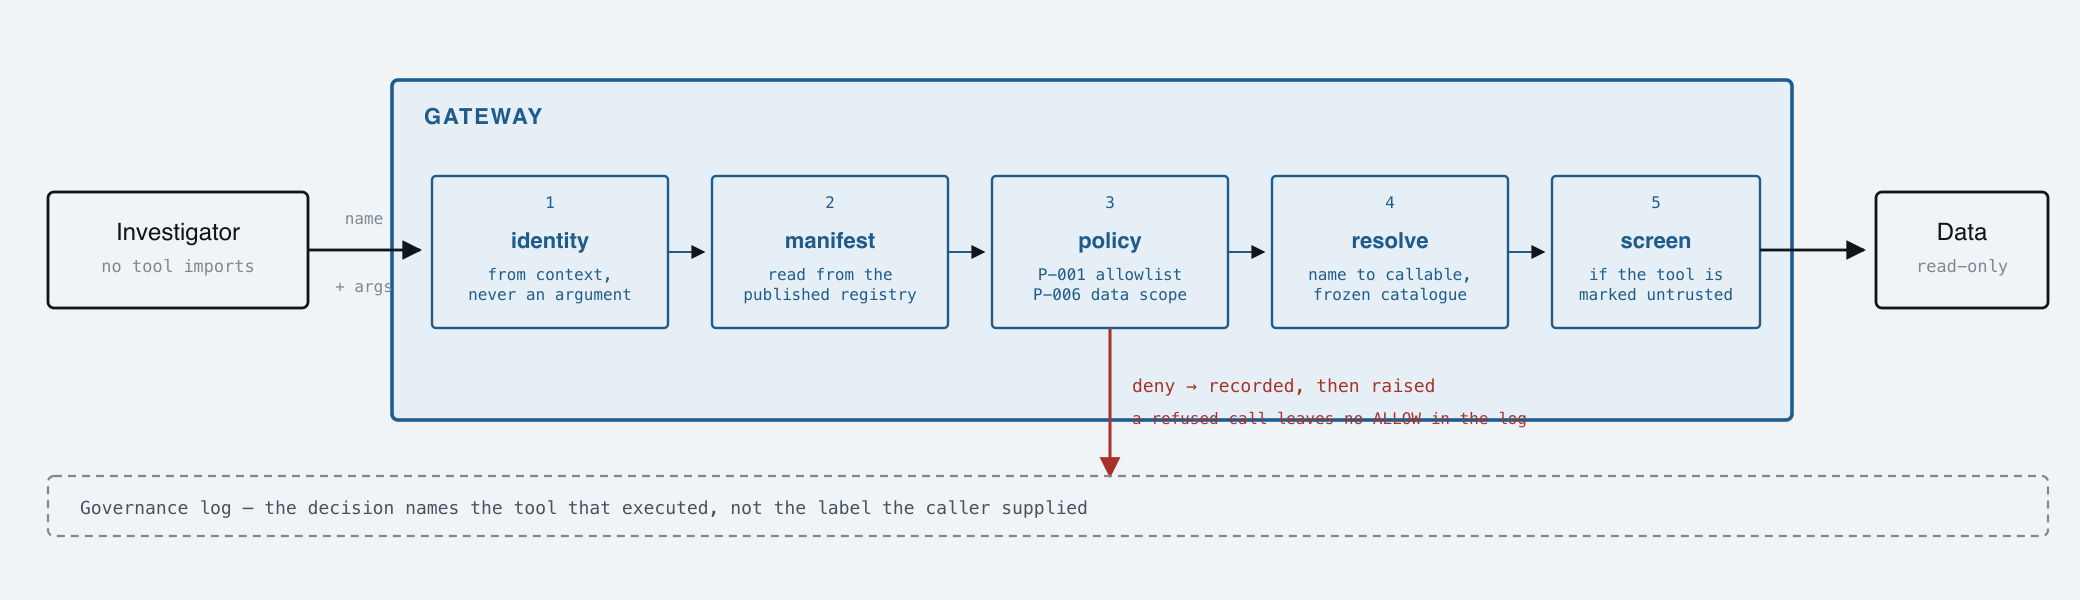
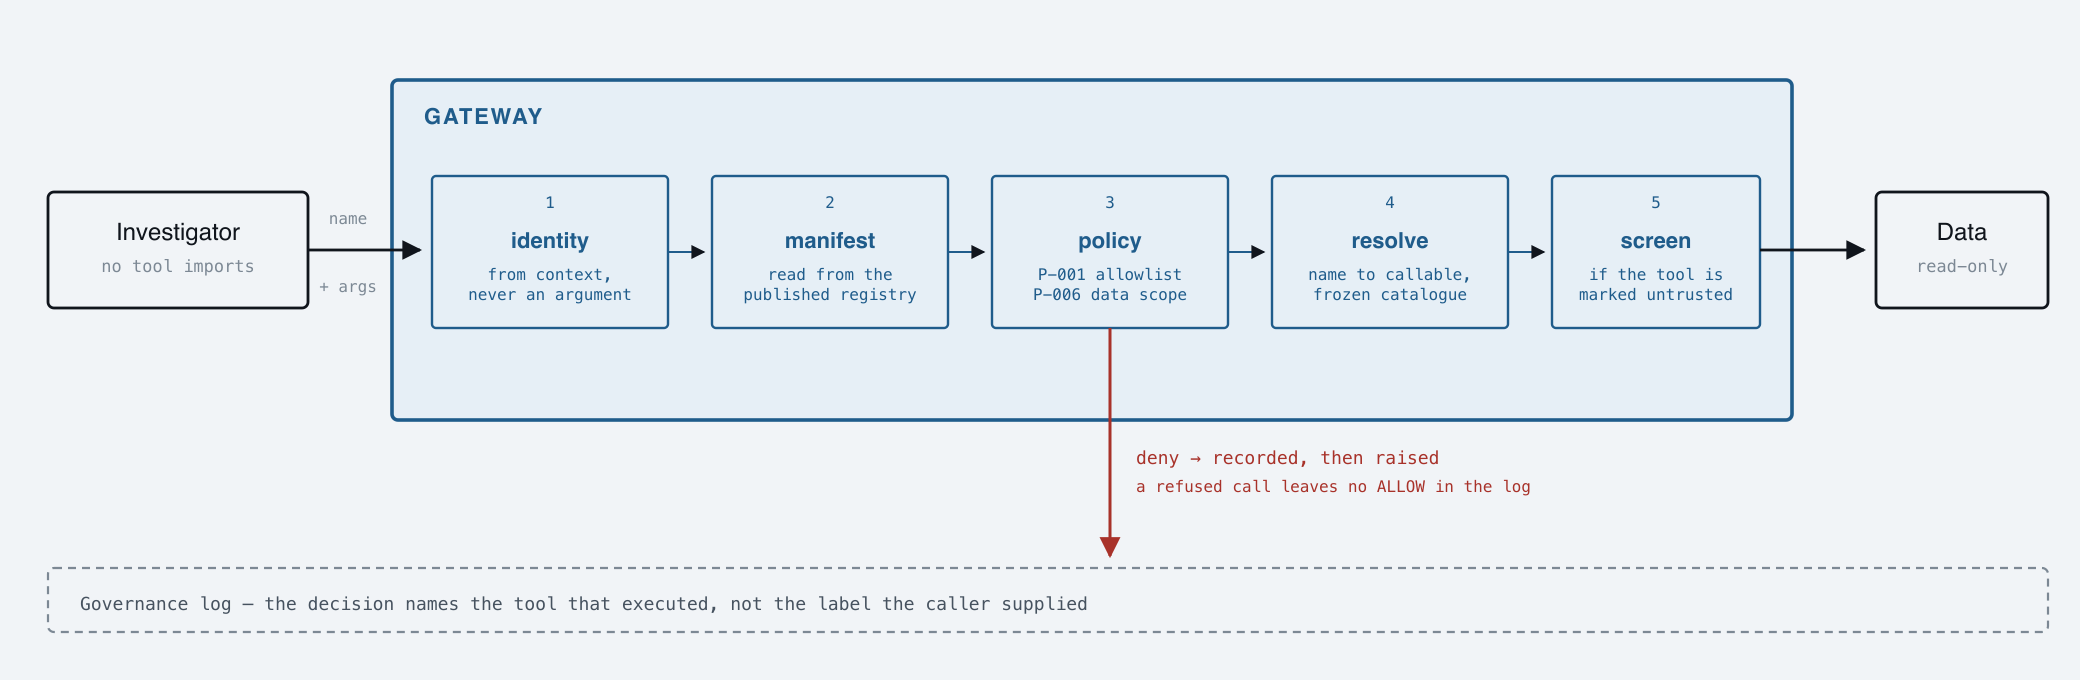
Figure 2: move the denial annotation clear of the gateway band
The red annotation was painted at y=196 and y=212 while the gateway band
runs y=40 to 210, so the first line sat inside the blue fill and the second
was struck through by the band's bottom border.

The canvas grows 300 to 340 and the text moves to y=232/246, below the band.
The denial path still originates at the policy step inside the band, because
that is where a refusal actually happens -- it is the label that had to move,
not the arrow.

Also recentred the "name / + args" pair from x=182 to x=174: at 182 the
wider "+ args" ran from 163 to 201 and was clipped by the band's left border
at 196. The gap between the investigator box and the band is 42px, so both
labels now sit inside it.

diff --git a/docs/architecture.html b/docs/architecture.html
@@ -336,7 +336,7 @@ footer {
 
   <figure>
     <div class="canvas">
-      <svg viewBox="0 0 1040 300" role="img"
+      <svg viewBox="0 0 1040 340" role="img"
         aria-label="An agent emits a tool name and arguments. The gateway resolves identity from context, reads the manifest from the registry, checks the allowlist and data scope, resolves the name to a callable in a frozen catalogue, executes it, and screens the result if the tool is marked untrusted. Denials at any step are recorded and raised.">
         <defs>
           <marker id="b" viewBox="0 0 10 10" refX="9" refY="5" markerWidth="7" markerHeight="7" orient="auto-start-reverse">
@@ -388,8 +388,8 @@ footer {
           <line x1="154" y1="125" x2="210" y2="125"/>
           <line x1="880" y1="125" x2="932" y2="125"/>
         </g>
-        <text x="182" y="112" font-family="JetBrains Mono, monospace" font-size="8" fill="var(--ink-faint)" text-anchor="middle">name</text>
-        <text x="182" y="146" font-family="JetBrains Mono, monospace" font-size="8" fill="var(--ink-faint)" text-anchor="middle">+ args</text>
+        <text x="174" y="112" font-family="JetBrains Mono, monospace" font-size="8" fill="var(--ink-faint)" text-anchor="middle">name</text>
+        <text x="174" y="146" font-family="JetBrains Mono, monospace" font-size="8" fill="var(--ink-faint)" text-anchor="middle">+ args</text>
 
         <g stroke="var(--accent)" stroke-width="1" fill="none" marker-end="url(#b)" color="var(--accent)">
           <line x1="334" y1="126" x2="352" y2="126"/>
@@ -398,12 +398,12 @@ footer {
           <line x1="754" y1="126" x2="772" y2="126"/>
         </g>
 
-        <line x1="555" y1="164" x2="555" y2="238" stroke="var(--deny)" stroke-width="1.5" fill="none" marker-end="url(#bd)"/>
-        <text x="566" y="196" font-family="JetBrains Mono, monospace" font-size="9" fill="var(--deny)">deny → recorded, then raised</text>
-        <text x="566" y="212" font-family="JetBrains Mono, monospace" font-size="8" fill="var(--deny)">a refused call leaves no ALLOW in the log</text>
+        <line x1="555" y1="164" x2="555" y2="278" stroke="var(--deny)" stroke-width="1.5" fill="none" marker-end="url(#bd)"/>
+        <text x="568" y="232" font-family="JetBrains Mono, monospace" font-size="9" fill="var(--deny)">deny → recorded, then raised</text>
+        <text x="568" y="246" font-family="JetBrains Mono, monospace" font-size="8" fill="var(--deny)">a refused call leaves no ALLOW in the log</text>
 
-        <rect x="24" y="238" width="1000" height="30" rx="3" fill="none" stroke="var(--ink-faint)" stroke-width="1.1" stroke-dasharray="4 3"/>
-        <text x="40" y="257" font-family="JetBrains Mono, monospace" font-size="9" fill="var(--ink-soft)">Governance log — the decision names the tool that executed, not the label the caller supplied</text>
+        <rect x="24" y="284" width="1000" height="32" rx="3" fill="none" stroke="var(--ink-faint)" stroke-width="1.1" stroke-dasharray="4 3"/>
+        <text x="40" y="305" font-family="JetBrains Mono, monospace" font-size="9" fill="var(--ink-soft)">Governance log — the decision names the tool that executed, not the label the caller supplied</text>
       </svg>
     </div>
     <figcaption><b>Resolution, not delegation.</b> The gateway previously accepted a name <em>and</em> a callable and validated only the name, so any function could run under a declared tool's label while the audit record named the label. The catalogue is now a read-only mapping that refuses any key disagreeing with its own entry, and it captures function objects at import time — so rebinding a tool module afterwards cannot redirect what runs.</figcaption>
